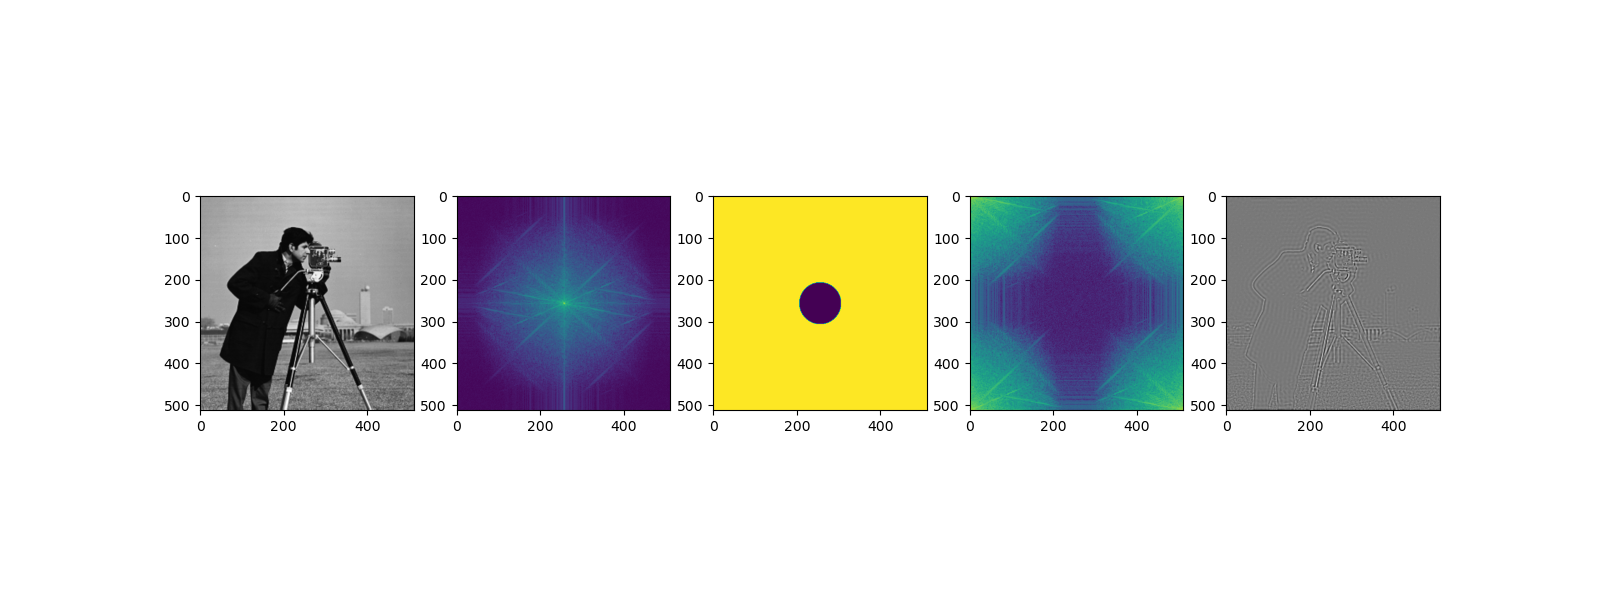
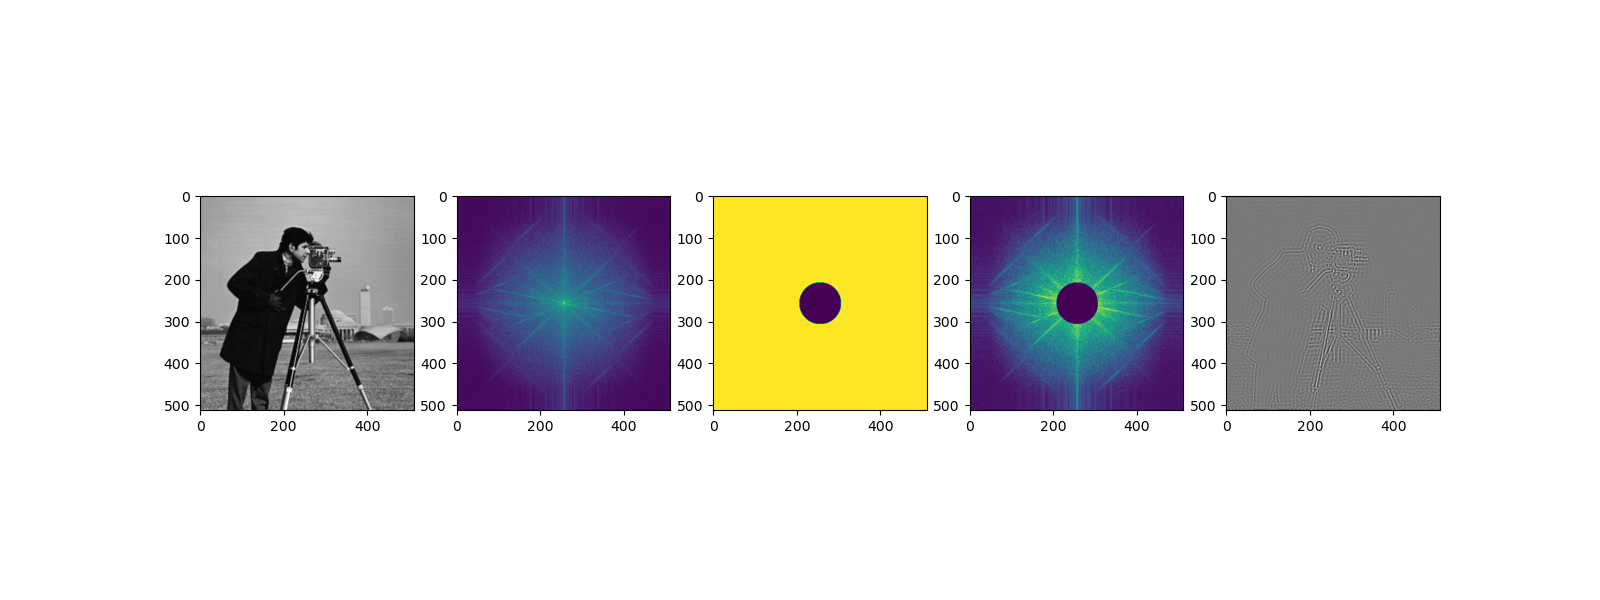
Fixed task 2d and 4a

Changed region(s): [[0.5938, 0.33, 0.75, 0.69]]

diff --git a/image_processing/assignment_2/task4a.py b/image_processing/assignment_2/task4a.py
@@ -4,6 +4,13 @@ import skimage
 import utils
 
 
+# From https://github.com/hukkelas/TDT4195-StarterCode/blob/master/tutorials/frequency_domain.ipynb
+def magnitude(fft_im):
+    real = fft_im.real
+    imag = fft_im.imag
+    return np.sqrt(real**2 + imag**2)
+
+
 def convolve_im(im: np.array,
                 fft_kernel: np.array,
                 verbose=True):
@@ -25,19 +32,16 @@ def convolve_im(im: np.array,
 
     dft_image_filtered = dft_image * fft_kernel
 
-    def to_real(dft_img):
-        return np.sqrt(dft_image.real**2 + dft_image.imag**2)
-
     conv_result = np.fft.ifft2(dft_image_filtered).real
     if verbose:
         dft_image = np.fft.fftshift(dft_image)
-        dft_image = to_real(dft_image)
+        dft_image = magnitude(dft_image)
         dft_image = np.log(dft_image + 1)
 
         fft_kernel = np.fft.fftshift(fft_kernel)
 
         dft_image_filtered = np.fft.fftshift(dft_image_filtered)
-        dft_image_filtered = to_real(dft_image_filtered)
+        dft_image_filtered = magnitude(dft_image_filtered)
         dft_image_filtered = np.log(dft_image_filtered + 1)
 
         # Use plt.subplot to place two or more images beside eachother
@@ -57,7 +61,7 @@ def convolve_im(im: np.array,
 
         # Visualize filtered FFT image
         plt.subplot(1, 5, 4)
-        plt.imshow(np.fft.fftshift(dft_image_filtered))
+        plt.imshow(dft_image_filtered)
 
         # Visualize filtered spatial image
         plt.subplot(1, 5, 5)

diff --git a/image_processing/assignment_2/report.md b/image_processing/assignment_2/report.md
@@ -106,9 +106,9 @@ Weights and activations:
 ### 2.d)
 The five filters explained:
 1. This filter is clearly a vertical edge-detection filter, and can be seen as the Sobel operator. We see that the Zebra's vertical stripes are clear, while the horizontal line between the sky and the grass (blue-green) is nearly gone.
-2. 
+2. This filter looks like it detects diagonal black stripes (different from normal edge detection as the filter has negative-positive-negative stripes instead of negative-positive stripes).
 3. This filter is used to detect green values, as the grass is lit.
-4. 
+4. This filter looks like it detects horionztal black stripes (as point 2. mentioned).
 5. This filter is used to detect blue balues, as the sky is lit.
 
 ## Task 3
